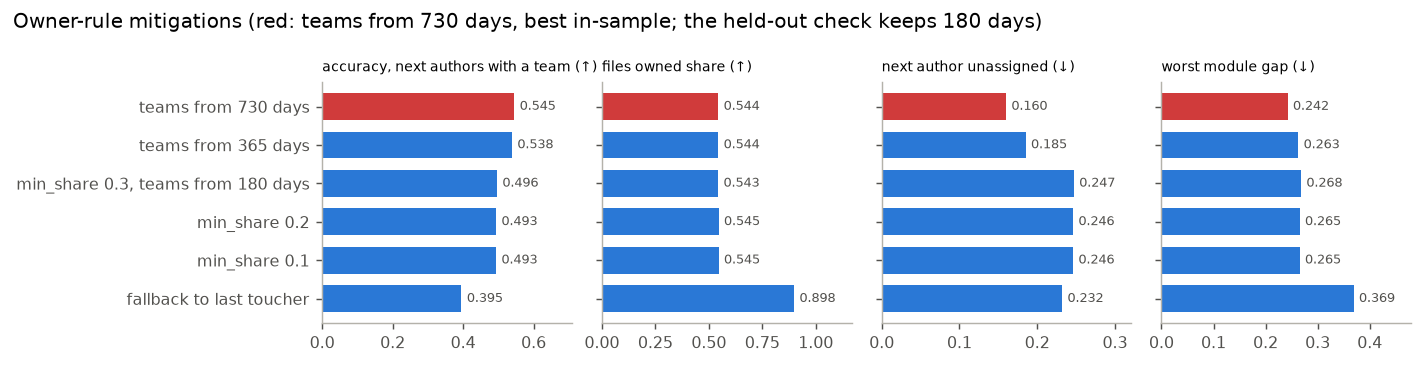
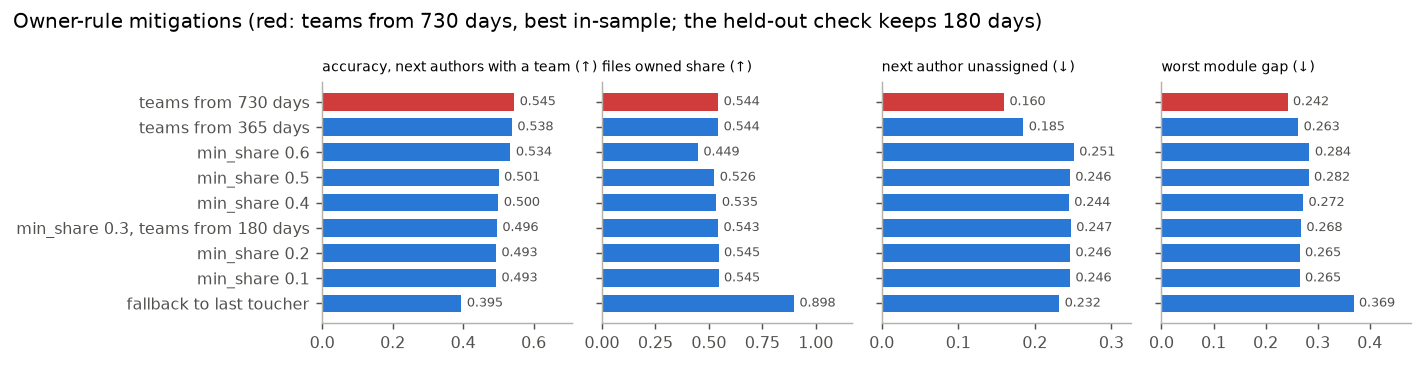
Flow: SZZ cache for the daily update (DAG 943 s -> 480 s); bias: adopted abstain threshold, measured
Flow (criterion 6):
- The Gantt showed history as the critical path (854 of 943 s), mostly SZZ re-blaming
  every fix commit. settings.toml [cache] szz and scan on for the daily update; the
  weekly rebuild keeps every cache off (MERIDIAN_NO_CACHE) and compare checks the result.
- Measured in Airflow on c5118b019d642a9b: cold run fills the cache, warm run reuses
  all 9,757 fix commits. history 854 s -> 316 s, whole DAG 943 s -> 480 s. The 24 output
  files match golden byte for byte.
- [history] szz_workers 4: ten processes ran Docker's 7.7 GB out of memory with the
  cache on. The resolve cache was slower (195 -> 261 s) and is off again.
- tests/test_cache.py: baselines run with the cache explicitly off.
- Report 2.9, criteria row 6, Appendix A (before/after table, warm Gantt,
  report/airflow_run_warm.csv).

Bias (criterion 9):
- The owner rule's min_share is presented as the adopted decision-threshold mitigation
  (abstain: "unowned, needs review"), with an accuracy-coverage curve over min_share
  0.10-0.60 and the harm argument (guessing is right 127 of 511 times where it abstains).
- bias.py: no_team_authors section (the 24% of files whose next author has no team);
  held-out pick only among variants owning at least as many files; scored N per variant.
- tests/test_bias.py: 2 new tests. BIAS.md, report 3.3/3.4, Appendix B 5, criteria row 9,
  bias_mitigation.png. dvc.lock: only the bias stage re-recorded.
[…]

diff --git a/Data-Pipeline/meridian/bias.py b/Data-Pipeline/meridian/bias.py
@@ -20,6 +20,8 @@ so a view can caveat a low-coverage module, team or component. For the owner rul
 way, so the trade-off is on record: lower min_shares, longer lookbacks for a person's team, and falling back to the
 last toucher's team where the rule says 'unowned'. The best one is picked one window earlier and confirmed on the
 current cut (held_out). They are proposals: applying one changes meridian.toml (or owners.py), which means a new run_id.
+min_shares above meridian.toml's trace the abstain curve: fewer files owned, accuracy on what is still named. Next
+authors with no team, whom accuracy can't score, are described as a group of their own (no_team_authors).
 
 Reads out/<run_id>/ tables and settings.toml [bias]. Writes out/<run_id>/bias.json. Never writes a table.
 """
@@ -109,7 +111,7 @@ def owner_rows(cfg, out, root, run_id, variants, earlier=0):
             continue
         window = [x for x in before if back(cut) < x[0]]
         k = prior[after[0][1]]
-        row = {"path": path, "module": module(path),
+        row = {"path": path, "module": module(path), "next_person": after[0][1],
                "prior": "0" if not k else "1" if k == 1 else "2-10" if k <= 10 else ">10"}
         for name, (share, d) in variants.items():
             team_of = lambda p: teams[d].get(p, unassigned)
@@ -185,6 +187,7 @@ def owner_report(df, unassigned, variants, b):
              or {"overall": {"accuracy": 0.0}, "by_group": {}, "flagged": []})
         report["mitigations"][name] = {
             "files_owned": int(kept.sum()), "of": len(df), "accuracy_assigned": r["overall"]["accuracy"],
+            "scored": int(ok.sum()),
             "accuracy": round(float((pred[kept] == truth[kept]).mean()), 4) if kept.any() else 0.0,   # owners.py's
             "next_author_unassigned": round(float((truth[kept] == unassigned).mean()), 4) if kept.any() else 0.0,
             "flagged_modules": len(r["flagged"]),
@@ -193,23 +196,58 @@ def owner_report(df, unassigned, variants, b):
     return report
 
 
+def no_team_report(df, unassigned, variants):
+    """Next authors with no team (the circular class owner_report leaves out of accuracy), as a group of their own:
+    how many files and people, their commits before the cut, the modules they touch, and what the rule does there.
+    They have no label at the configured lookback, so the owner is checked against the team the longest lookback
+    gives them, where it gives one. Counts only, never a person."""
+    base = next(iter(variants))
+    longest = max(variants, key=lambda n: (variants[n][1], n == base))
+    owner, nxt = df[f"owner|{base}"], df[f"next|{base}"]
+    none = nxt == unassigned
+    d, owned = df[none], owner[none] != "unowned"
+    later = df.loc[none, f"next|{longest}"]
+    proxy = owned & (later != unassigned)
+    share = lambda a, n: round(a / n, 4) if n else 0.0
+    by_module = d["module"].value_counts()
+    return {
+        "files": int(none.sum()), "of": len(df), "share": share(none.sum(), len(df)),
+        "people": d["next_person"].nunique(), "of_people": df["next_person"].nunique(),
+        "files_by_prior_commits": {k: int(v) for k, v in sorted(d["prior"].value_counts().items())},
+        "people_by_prior_commits": {k: int(v) for k, v in sorted(d.groupby("prior")["next_person"].nunique().items())},
+        "modules": [{"module": m, "files": int(n), "share_of_module": share(n, (df["module"] == m).sum())}
+                    for m, n in sorted(by_module.items(), key=lambda x: (-x[1], x[0]))],
+        "owned_share": share(owned.sum(), len(d)),
+        "owned_share_with_a_team": share((owner[~none] != "unowned").sum(), (~none).sum()),
+        "team_from": longest, "given_a_team_there": int((later != unassigned).sum()),
+        "accuracy_against_that_team": share((owner[none][proxy] == later[proxy]).sum(), proxy.sum()) if proxy.any()
+        else None,   # nothing owned and given a team: nothing to score
+        "scored_against_that_team": int(proxy.sum())}
+
+
 def held_out(early, now, unassigned, variants, reps=1000, seed=0):
     """Pick the variant with the best accuracy (next authors with a team) at the earlier cut, then score it against the
-    configured one on the current cut: the delta, with a seeded paired bootstrap 95% interval over files."""
+    configured one on the current cut: the delta, with a seeded paired bootstrap 95% interval over files.
+
+    Only a variant that owns at least as many files as the configured one at the earlier cut can be picked: a stricter
+    min_share is always at least as accurate on what it still names, so it would win by abstaining, not by being
+    right more. Those are scored apart, as the abstain curve (owner_report's mitigations, and owned here)."""
     def hits(df, name):   # per file: scored, right
         pred, truth = df[f"owner|{name}"], df[f"next|{name}"]
         ok = (pred != "unowned") & (truth != unassigned)
         return ok.to_numpy(), (ok & (pred == truth)).to_numpy()
     acc = lambda ok, right: right.sum() / ok.sum() if ok.any() else 0.0
     picked = {name: num(acc(*hits(early, name))) for name in variants} if len(early) else {}
+    owned = {name: int((early[f"owner|{name}"] != "unowned").sum()) for name in variants} if len(early) else {}
     base = next(iter(variants))
-    best = max(picked, key=picked.get, default=base)   # a tie keeps what's configured
+    fair = {name: a for name, a in picked.items() if owned[name] >= owned[base]}
+    best = max(fair, key=fair.get, default=base)   # a tie keeps what's configured
     (ok0, r0), (ok1, r1) = hits(now, base), hits(now, best)
     i = np.random.default_rng(seed).integers(0, len(now), (reps, len(now)))
     with np.errstate(all="ignore"):   # a resample with nothing scored is NaN, left out
         delta = r1[i].sum(1) / ok1[i].sum(1) - r0[i].sum(1) / ok0[i].sum(1)
     lo, hi = np.nanpercentile(delta, [2.5, 97.5]) if not np.isnan(delta).all() else (None, None)
-    return {"picked_at_earlier_cut": best, "accuracy_at_earlier_cut": picked,
+    return {"picked_at_earlier_cut": best, "accuracy_at_earlier_cut": picked, "owned_at_earlier_cut": owned,
             "accuracy_now": {base: num(acc(ok0, r0)), best: num(acc(ok1, r1))},
             "delta": num(acc(ok1, r1) - acc(ok0, r0)), "delta_ci": [num(lo), num(hi)], "bootstrap": reps, "seed": seed}
 
@@ -267,6 +305,7 @@ def main(run_id, config=CONFIG, root=None, settings=None):
     df, unassigned, cut = owner_rows(cfg, out, root, run_id, variants)
     if len(df):
         report["owner_rule"] = owner_report(df, unassigned, variants, b) | {"cut": cut}
+        report["owner_rule"]["no_team_authors"] = no_team_report(df, unassigned, variants)
         # shortcut: reads the tables a second time for the earlier cut; load once if bias outgrows its timeout
         early, _, early_cut = owner_rows(cfg, out, root, run_id, variants, earlier=1)
         report["owner_rule"]["held_out"] = held_out(early, df, unassigned, variants) | {"cut": early_cut,

diff --git a/Data-Pipeline/tests/test_bias.py b/Data-Pipeline/tests/test_bias.py
@@ -43,7 +43,7 @@ SETTINGS = textwrap.dedent("""\
     [bias]
     min_n = 1
     max_gap = 0.10
-    min_shares = [0.30]
+    min_shares = [0.30, 0.60]
     team_lookback_days = [180, 730]
     """)
 
@@ -118,6 +118,22 @@ class Bias(unittest.TestCase):
         self.assertEqual((m["teams from 730 days"]["accuracy"], m["teams from 730 days"]["accuracy_assigned"]),
                          (1.0, 1.0))
 
+    def test_a_stricter_threshold_is_scored(self):   # 0.60 is above meridian.toml's 0.30: sql/a.scala is all SQL's
+        m = self.report["owner_rule"]["mitigations"]["min_share 0.6"]
+        self.assertEqual((m["files_owned"], m["scored"], m["accuracy_assigned"]), (1, 1, 1.0))
+
+    def test_no_team_authors_as_a_group(self):
+        # core/b.scala: Ann is next, no team at 180 days (her keyed commit is 2025-01), 2 commits before the cut, the
+        # rule leaves the file unowned. 730 days gives her Core, but an unowned file has nothing to score
+        g = self.report["owner_rule"]["no_team_authors"]
+        self.assertEqual((g["files"], g["of"], g["share"], g["people"], g["of_people"]), (1, 2, 0.5, 1, 2))
+        self.assertEqual((g["files_by_prior_commits"], g["people_by_prior_commits"]), ({"2-10": 1}, {"2-10": 1}))
+        self.assertEqual(g["modules"], [{"module": "core", "files": 1, "share_of_module": 1.0}])
+        self.assertEqual((g["owned_share"], g["owned_share_with_a_team"]), (0.0, 1.0))
+        self.assertEqual((g["team_from"], g["given_a_team_there"], g["scored_against_that_team"],
+                          g["accuracy_against_that_team"]), ("teams from 730 days", 1, 0, None))
+        self.assertEqual(self.saved["owner_rule"]["no_team_authors"], g)
+
     def test_held_out_cut_is_one_window_earlier(self):   # nothing spans 2025-10-06 here: the configured variant stays
         h = self.report["owner_rule"]["held_out"]
         self.assertEqual((h["cut"], h["files"], h["picked_at_earlier_cut"]),
@@ -151,6 +167,13 @@ class Bias(unittest.TestCase):
         lo, hi = h["delta_ci"]
         self.assertTrue(0 <= lo <= 0.5 <= hi <= 1)
         self.assertEqual(h, B.held_out(early, now, "unassigned", {"base": (0.3, 180), "long": (0.3, 730)}))   # seeded
+        # a stricter threshold abstains on the 3 wrong files: right on all it names, but it owns fewer, so not picked
+        early["owner|strict"], early["next|strict"] = ["X", "unowned", "unowned", "unowned"], early["next|base"]
+        now["owner|strict"], now["next|strict"] = now["owner|base"], now["next|base"]
+        h = B.held_out(early, now, "unassigned", {"base": (0.3, 180), "strict": (0.6, 180)})
+        self.assertEqual(h["accuracy_at_earlier_cut"]["strict"], 1.0)
+        self.assertEqual(h["owned_at_earlier_cut"], {"base": 4, "strict": 1})
+        self.assertEqual((h["picked_at_earlier_cut"], h["delta"]), ("base", 0.0))
 
     def test_ticket_mapping_and_resolver_slices(self):
         t = self.report["ticket_mapping"]

diff --git a/Data-Pipeline/tests/test_cache.py b/Data-Pipeline/tests/test_cache.py
@@ -97,7 +97,8 @@ class ScanCache(unittest.TestCase):
             root = Path(tmp)
             _, config = TS.snapshot(root)
             cfg = load_config(config)
-            quiet(S.run, RUN, cfg, root)
+            with switched(root, scan=False):   # the baseline: cache off whatever settings.toml says
+                quiet(S.run, RUN, cfg, root)
             off = tables(root, RUN, S.KEYS)
             with switched(root, scan=True):
                 _, first = quiet(S.run, RUN, cfg, root)
@@ -109,7 +110,8 @@ class ScanCache(unittest.TestCase):
 
             next_snapshot(root, "fix__app", "fix/app",
                           {"app/direct.py": "from lib.translation import ugettext\nugettext('n')\n"})
-            quiet(S.run, RUN2, cfg, root)
+            with switched(root, scan=False):   # from scratch: cache off whatever settings.toml says
+                quiet(S.run, RUN2, cfg, root)
             scratch = tables(root, RUN2, S.KEYS)
             with switched(root, scan=True):
                 _, third = quiet(S.run, RUN2, cfg, root)

diff --git a/Data-Pipeline/report/REPORT.md b/Data-Pipeline/report/REPORT.md
@@ -104,9 +104,21 @@ On `c5118b019d642a9b` there are 0 errors and 0 warnings. 289 Spark tickets reall
 
 ### 2.9 Pipeline flow optimization
 
-The Gantt chart of the team run's update shows where the time goes. Run one after another, the tasks add up to 1,183 s. The DAG took 943 s, because `scan` and `resolve` run beside `history`, which saves 20%.
+**What the Gantt chart showed.** In the team run's update, the tasks add up to 1,183 s back to back. The DAG took 943 s, because `scan` and `resolve` run beside `history` (20% saved). The chart also showed that `history` is the critical path: 854 of the 943 s. Most of that is SZZ, which blames every Spark bug-fix commit again on every run, although almost all of them are the same as the day before.
 
-`history` is the bottleneck: it walks all of Spark's git history for SZZ. It already runs one process per CPU, and its cache brings a warm run from 312 s down to 74 s ([Appendix D](appendix-testing.md)). Most of what's left is Docker's folder mount on a Mac, which makes git about three times slower than native. A Docker volume or a Linux host fixes that ([Appendix A](appendix-airflow.md)).
+**What we changed, and the result.** We turned on the SZZ cache for the daily update (`settings.toml [cache]`). A fix commit blamed once keeps its answer, and only new fix commits are blamed. Then we measured it in Airflow on the same run. The first run fills the cache; the next one reuses it:
+
+| | Before: cache off | After: warm cache |
+|---|---:|---:|
+| `history` | 854 s | **316 s** (−63%) |
+| Whole update DAG | 943 s | **480 s** (−49%) |
+| Output | the 24 golden files | the same 24 files, byte for byte |
+
+The log confirms it: all 9,757 Spark fix commits came from the cache. The "after" run also used 4 SZZ processes instead of one per CPU (10). Ten ran out of Docker's 7.7 GB of memory once the cache was on, so the saving is not from more parallelism. On a real day a few new fix commits are blamed, so a daily run sits a little above 480 s.
+
+Two caches didn't pay off, and we say so. The scan cache cut `scan` from 11 s to 7 s, which is too small to matter. The resolve cache made `resolve` slower (195 s to 261 s), because checking that a file can be reused means re-reading every file Jedi read for it through the Mac's folder mount. We turned the resolve cache off; `resolve` runs beside `history`, so it isn't on the critical path either way.
+
+The weekly rebuild keeps every cache off (`MERIDIAN_NO_CACHE`). Once a week it recomputes everything from scratch and `compare` checks the cached daily results against it, so a stale cache can't go unnoticed. The rest of the cold time is Docker's folder mount on a Mac, which makes git about three times slower than native. A Docker volume or a Linux host would remove that ([Appendix A](appendix-airflow.md)).
 
 ## 3. Data bias detection using data slicing
 
@@ -124,7 +136,7 @@ We don't have demographic data, and we don't want it. What we can check is wheth
 
 A slice counts when it has at least 30 rows. It's flagged when its whole 95% Wilson interval (a confidence range for a rate) sits more than 0.10 below the overall value. 136 slices were judged and 32 flagged:
 
-- The owner rule is right 49.6% of the time where it can be scored. A quarter of next authors have no team (none of their commits in the last 180 days names a ticket with a Jira component), so the rule can't score them. That's a coverage gap, not a skew.
+- The owner rule is right 49.6% of the time where it can be scored. A quarter of next authors have no team (none of their commits in the last 180 days names a ticket with a Jira component), so the rule can't score them. That's a coverage gap, not a skew. We look at that group on its own in §3.3.
 - Ticket mapping depends mostly on age. Tickets from before 2014 point at files that are gone by our pinned commit. Kubernetes and Spark Docker stay low even on recent tickets, because their code lives in other Apache repos we didn't snapshot.
 - The resolver treats every repo the same: 98.1% kept overall, no repo flagged.
 
@@ -132,19 +144,38 @@ A slice counts when it has at least 30 rows. It's flagged when its whole 95% Wil
 
 We scored each fix on the same files, then checked the best one on held-out data.
 
-- Lowering the owner threshold (min_share 0.30 to 0.20 or 0.10) changed nothing: files are unowned because their authors have no team, not because shares sit near the line.
-- Falling back to the last person who touched the file owns 65% more files but is wrong more often (0.395), so we didn't take it.
+**Adopted: the owner rule abstains instead of guessing.** `min_share` is a decision threshold. A file's top team must hold at least 30% of its recent commits, or the rule names no owner and the file shows as "unowned, needs review". We measured that choice as a curve: raise the threshold and the rule names fewer files but is right more often on the ones it names. On the 1,819 files of the test (accuracy on next authors with a team):
+
+| min_share | Files owned | Accuracy (N, 95% CI) | Earlier cut: owned, accuracy |
+|---|---:|---:|---:|
+| never abstain (last toucher's team) | 1,634 (89.8%) | 0.395 (1,255, 0.369–0.423) | not scored |
+| 0.10 / 0.20 | 992 (54.5%) | 0.493 (748) | 774, 0.502 |
+| **0.30 (adopted, meridian.toml)** | **988 (54.3%)** | **0.496 (744, 0.460–0.532)** | **769, 0.505** |
+| 0.40 | 974 (53.5%) | 0.500 (736, 0.464–0.536) | 755, 0.508 |
+| 0.50 | 956 (52.6%) | 0.501 (721, 0.464–0.537) | 737, 0.504 |
+| 0.60 | 817 (44.9%) | 0.534 (612, 0.495–0.573) | 595, 0.560 |
+
+Abstaining reduces harm because the two errors aren't equal. A wrong owner is silent: the work goes to a team that didn't write the code, and nobody sees that it went wrong. "Unowned, needs review" is visible, so a person routes it. On the files where the rule abstains, guessing the last toucher's team would be right only 127 of 511 times (0.249), so it would send three in four of them to the wrong team. That's why we abstain rather than fall back.
+
+We kept 0.30. From 0.10 to 0.50 the accuracy is flat (0.493–0.501, the intervals overlap almost fully), so 0.30 keeps the most files at the same accuracy. 0.60 is the first value that clearly helps, at both cuts (+0.038 now, +0.055 at the earlier cut). But it sends 171 more files to review (owned 54.3% to 44.9%), and the worst module gap widens from 0.268 to 0.284. The files it gives up are still right 42 of 132 times (0.318). We recommend 0.60 if the team can review that many more files. It would change `meridian.toml`, so a new run_id, and we didn't adopt it here. The held-out check (below) only picks a variant that owns at least as many files as the current rule, so a stricter threshold can't win just by abstaining more.
+
+Measured, not adopted:
+
+- Lowering the threshold (0.20 or 0.10) changed nothing: files are unowned because their authors have no team, not because shares sit near the line.
+- Falling back to the last person who touched the file owns 65% more files but is wrong more often (0.395), and widens the worst module gap to 0.369.
 - Taking a person's team from their last 730 days instead of 180 looked best: accuracy 0.496 to 0.545, and unassigned authors 24.7% down to 16.0%. But picked on an earlier cut and checked on the current one, it lost to the current rule (0.502 vs 0.505). So we didn't adopt it.
 
-What we shipped: every slice in `bias.json` carries its size, interval and flag, so the views can show "low coverage" next to a flagged team or module and an unmapped team doesn't look idle. For ticket mapping the fix is more data, not fuzzy matching: add the two missing Apache repos in the next team run.
+**Authors with no team, as their own group** (`bias.json` `owner_rule.no_team_authors`). 438 of the 1,819 files (24.1%) have a next author with no team. That's 96 of 169 next authors. Most are newcomers: 70 of the 96 had no commits before the cut (257 files), 11 had 2–10, 14 more than 10 and 1 had one. A person's team comes from their own ticket-keyed commits, so a first-time author can never have one. That means the prior-commits slice in §3.2 can't speak for newcomers at all. Their files are mostly in `sql/` (325 files, 33.9% of `sql/`'s), then `core/` (33) and `python/` (32). `connector/` is the most affected, with 14 of its 21 files. The rule names an owner for their files about as often as for anyone else's (55.7% vs 53.9%), so they aren't routed worse, just not checkable. Where a 730-day lookback gives them a team (150 files), the named owner matches it 0.651 of the time (N = 86), above the overall 0.496.
+
+What we shipped beyond the rule: every slice in `bias.json` carries its size, interval and flag, so the views can show "low coverage" next to a flagged team or module and an unmapped team doesn't look idle. For ticket mapping the fix is more data, not fuzzy matching: add the two missing Apache repos in the next team run.
 
 ### 3.4 Documenting bias mitigation
 
-[BIAS.md](../BIAS.md) has every slice, the mitigation table and the held-out check, and [Appendix B §5](appendix-quality.md#5-bias-data-slicing) has the charts. The trade-offs:
+[BIAS.md](../BIAS.md) has every slice, the mitigation table with the threshold curve, the no-team group and the held-out check, and [Appendix B §5](appendix-quality.md#5-bias-data-slicing) has the charts. The trade-offs:
 
 - The longer lookback gives more people a team, but a two-year-old team can be wrong for someone who moved.
 - The flags aren't corrected for testing 136 slices at once. Under a Bonferroni check 26 of the 32 still hold.
-- `tests/test_bias.py` pins the slicing and flag rules on a synthetic history.
+- `tests/test_bias.py` pins the slicing and flag rules, a threshold above the adopted one, the no-team group and the held-out pick on a synthetic history.
 
 ## 4. Additional guidelines
 
@@ -226,10 +257,10 @@ We tested this by breaking things on purpose: 27 injected faults and 42 scenario
 | 3 | Pipeline orchestration (Airflow DAGs) | §2.4, [A](appendix-airflow.md) | ✅ |
 | 4 | Tracking and logging | §2.6, §4.5 | ✅ Python logging in every part, a log per task try in Airflow |
 | 5 | Data version control (DVC) | §2.5 | 🟡 Partial: `dvc.yaml` and `dvc.lock` pin every stage, but the remote is a placeholder, so `dvc pull` doesn't work. The team zip and `reproduce.py` stand in for it (§4.3) |
-| 6 | Pipeline flow optimization | §2.9, [A](appendix-airflow.md) | ✅ |
+| 6 | Pipeline flow optimization | §2.9, [A](appendix-airflow.md) | ✅ The Gantt chart found the bottleneck (`history`, 854 of 943 s). The SZZ cache cut it to 316 s and the DAG to 480 s (−49%), measured in Airflow with the same output bytes |
 | 7 | Schema and statistics generation | §2.7, [B](appendix-quality.md) | ✅ |
 | 8 | Anomaly detection and alert generation | §2.8, [B](appendix-quality.md) | 🟡 Partial: detection is live and tested. Alerts go to the log; the Slack and email senders are tested with mocks, but no real channel is set up |
-| 9 | Bias detection and mitigation | §3, [BIAS.md](../BIAS.md) | ✅ Detection on 136 slices. Five mitigations measured, none adopted; flags ship instead (§3.3) |
+| 9 | Bias detection and mitigation | §3, [BIAS.md](../BIAS.md) | ✅ Detection on 136 slices. Adopted: the owner rule abstains ("unowned, needs review") below `min_share` 0.30, measured on an accuracy-coverage curve against guessing (0.496 vs 0.395); 0.60 recommended, not adopted. No-team authors analysed as their own group. Per-slice flags ship to the views (§3.3) |
 | 10 | Test modules | §2.3, [B](appendix-quality.md) | ✅ |
 | 11 | Reproducibility | §4.3, [D](appendix-testing.md) | ✅ Same run_id and same bytes from the pinned inputs; `reproduce.py` checks both |
 | 12 | Error handling and logging | §4.5, [D](appendix-testing.md) | ✅ |

diff --git a/Data-Pipeline/BIAS.md b/Data-Pipeline/BIAS.md
@@ -23,7 +23,7 @@ We don't slice by email domain or any other personal attribute, for privacy. The
 Counting every next author gives 0.373 (N = 988), with `unassigned` at 0.000 on N = 244. That 0.000 is built in: `team_owner` never names `unassigned`, and the same `person_teams` (same lookback) builds both the prediction and the label, so an unassigned next author is a miss under every variant. So `bias.py` now scores accuracy only on next authors with a team: 0.496 (N = 744, 95% CI 0.460–0.532). The unassigned rate is reported on its own as coverage (24.7% of owned files' next authors, `assigned_share_by_module`). Without the unassigned:
 - By module, 3 of 11 judged, 1 flagged: `core/` 0.228 (N = 57, CI 0.138–0.352). Counting the unassigned as misses it read 0.167 (N = 78), so part of `core/`'s gap was the circular class, but not all of it. `sql/` 0.519 (N = 393) and `python/` 0.509 (N = 232) sit on the overall line.
 - By the next author's team, 6 of 12 judged, 1 flagged: `Project Infra` 0.000 on exactly N = 30 (CI 0–0.114). That's borderline: one file fewer and it would be unjudged. The highest is Structured Streaming 0.804 (N = 51). Build (0.328, N = 116) and Spark Core (0.312, N = 64) are low, but their intervals reach the flag line.
-- By the next author's commits before the cut, 2 of 3 judged, 0 flagged: 2–10 commits 0.560 (N = 50), more than 10 0.493 (N = 686). One commit (0.375, N = 8) is too few to judge, so "newcomers aren't served worse" only holds down to people with 2 prior commits.
+- By the next author's commits before the cut, 2 of 3 judged, 0 flagged: 2–10 commits 0.560 (N = 50), more than 10 0.493 (N = 686). One commit (0.375, N = 8) is too few to judge, so "newcomers aren't served worse" only holds down to people with 2 prior commits. There is no 0-commit slice at all: a first-time author can't have a team, so newcomers sit entirely in the no-team group (section 5 below).
 
 ### 2. Some modules are mostly unowned
 
@@ -43,6 +43,15 @@ Owned share overall is 0.543 (N = 1,819). `examples/` 0.028 (CI 0.011–0.070), 
 
 Kept share is 0.981 overall (N = 1,556), and 0 of 12 judged repos are flagged. The lowest judged repo is jazzband/django-silk, 0.933 on N = 30 (CI 0.787–0.982). django-tenants (0.857, N = 7) is under N = 30, so it's unjudged.
 
+### 5. Next authors with no team, as their own group
+
+Accuracy can't score them, so `bias.json` `owner_rule.no_team_authors` describes them instead (counts only, never a person):
+- 438 of 1,819 files (24.1%) have a next author with no team. That's 96 of the 169 next authors.
+- By commits before the cut: 0 commits 70 people (257 files), 1 commit 1 (2), 2–10 commits 11 (32), more than 10 14 (147). Most are newcomers. A person's team comes from their own ticket-keyed commits in the lookback, so a first-time author can never have one. The 26 with earlier commits have none in the last 180 days that name a ticket with a component.
+- By module: `sql/` 325 files (33.9% of `sql/`'s 959), `core/` 33 (19.0%), `python/` 32 (10.7%), `connector/` 14 (66.7% of 21), `common/` 12 (18.8%), `resource-managers/` 6, `mllib/` 5, `examples/` 4, `dev/` 3, and one file each in `docs/`, `graphx/`, `launcher/`, `project/`.
+- The rule names an owner for 55.7% of their files, against 53.9% for next authors with a team. So their files are routed like anyone's; the gap is that nobody can check the route.
+- The 730-day lookback gives a team to the next author of 150 of the 438 files. On the 86 of those the rule owns, the named owner matches that team 0.651 of the time, above the overall 0.496. All of them made commits before the cut: a newcomer has no team under any lookback, so stays uncheckable.
+
 ### How many slices
 
 136 judged and 32 flagged (`bias.json` `slices_tested`, `slices_flagged`). Ticket mapping and resolver judge 111 and flag 27. The owner rule judges 25 and flags 5 (module 3/1, team 6/1, prior commits 2/0, assigned share 7/0, owned share 7/3).
@@ -60,15 +69,27 @@ We scored each candidate fix for the owner rule on the same files in the rerun (
 | Variant | Files owned | Accuracy (owners.py, unassigned = miss) | Accuracy, next authors with a team | Next author unassigned | Worst module gap |
 |---|---:|---:|---:|---:|---:|
 | as configured: `min_share` 0.30, teams from 180 days | 988 | 0.373 | 0.496 (N = 744) | 24.7% | 0.268 |
-| `min_share` 0.20 / 0.10 (adjusting the decision threshold) | 992 | 0.372 | 0.493 (N = 748) | 24.6% | 0.265 |
+| `min_share` 0.20 / 0.10 (a looser decision threshold) | 992 | 0.372 | 0.493 (N = 748) | 24.6% | 0.265 |
+| `min_share` 0.40 (stricter: abstains more) | 974 | 0.378 | 0.500 (N = 736) | 24.4% | 0.272 |
+| `min_share` 0.50 | 956 | 0.378 | 0.501 (N = 721) | 24.6% | 0.282 |
+| `min_share` 0.60 | 817 | 0.400 | 0.534 (N = 612) | 25.1% | 0.284 |
 | teams from 365 days | 989 | 0.439 | 0.538 (N = 806) | 18.5% | 0.263 |
 | teams from 730 days | 989 | 0.458 | 0.545 (N = 831) | 16.0% | 0.242 |
 | fallback to the last toucher's team when unowned | 1,634 | 0.303 | 0.395 (N = 1,255) | 23.2% | 0.369 |
 
 - Lowering the threshold does nothing. Those files are unowned because their authors have no team, not because shares sit near 0.30.
+- Raising it traces the abstain curve. 0.40 and 0.50 stay flat (0.500, 0.501, intervals 0.464–0.536 and 0.464–0.537 against 0.460–0.532). 0.60 is the first clear step: 0.534 (0.495–0.573) on 817 files, and 0.505 → 0.560 at the earlier cut (769 → 595 files). It gives up 171 files, which are right 42 of 132 times (0.318), and the worst module gap widens to 0.284.
 - Falling back to the last toucher owns 65% more files, but it's wrong more often (0.395) and widens the module gap.
 - A longer lookback for a person's team helps, but less than 0.373 → 0.458 suggests. Each variant is scored against its own labels, and the 730-day lookback also gives a team to 86 next authors who were unassigned, every one a guaranteed miss before. Without them the gain is 0.496 → 0.545 (+0.049), with overlapping intervals (0.460–0.532 vs 0.511–0.579). Coverage is the bigger win: unassigned next authors go from 24.7% to 16.0%. The catch is that a team from two years ago can be stale for someone who moved.
-- On held-out data the longer lookback doesn't hold up. `bias.py` picks the best variant at a cut one window earlier, 2025-10-06, with next authors limited to before the current cut, so the pick never sees the answers it's checked on. Then it scores the pick against the configured rule on the current cut, 2026-04-04, with a 95% interval from a seeded paired bootstrap over files (1,000 resamples, seed 0). On 1,279 files at the earlier cut the configured rule wins: 180 days 0.505, 730 days 0.502, `min_share` 0.20/0.10 0.502, 365 days 0.486. So the pick is the configured rule, and the held-out delta is 0.0, with a 95% interval of 0.0–0.0 (`bias.json` `owner_rule.held_out`). The +0.049 on the current cut is in-sample only.
+- On held-out data the longer lookback doesn't hold up. `bias.py` picks the best variant at a cut one window earlier, 2025-10-06, with next authors limited to before the current cut, so the pick never sees the answers it's checked on. Then it scores the pick against the configured rule on the current cut, 2026-04-04, with a 95% interval from a seeded paired bootstrap over files (1,000 resamples, seed 0). Only a variant that owns at least as many files as the configured rule there can be picked: a stricter `min_share` is right more often on what it still names, so it would win by abstaining, not by being right more (`owned_at_earlier_cut` records the counts). On 1,279 files at the earlier cut the configured rule wins: 180 days 0.505, 730 days 0.502, `min_share` 0.20/0.10 0.502, 365 days 0.486. The stricter thresholds score 0.508 (0.40, 755 files), 0.504 (0.50, 737) and 0.560 (0.60, 595) but own fewer files, so they're read as the curve above, not picked. So the pick is the configured rule, and the held-out delta is 0.0, with a 95% interval of 0.0–0.0 (`bias.json` `owner_rule.held_out`). The +0.049 on the current cut is in-sample only.
+
+### Adopted: abstain below `min_share` 0.30
+
+`min_share` is the owner rule's decision threshold. Below it the rule names no owner and the file shows as "unowned, needs review". That's the mitigation we adopted: the rule abstains rather than guesses. The curve above is its measurement, against the rule that never abstains (the last-toucher fallback, 0.395 on 1,634 files).
+
+Why abstaining reduces harm: a wrong owner is silent. The work goes to a team that didn't write the code, and nothing shows it went wrong. "Unowned, needs review" is visible, so a person routes it. On the 511 scored files where the rule abstains and the fallback guesses, the guess is right 127 times (0.249): three in four would go to the wrong team.
+
+Why 0.30: from 0.10 to 0.50 accuracy is flat (0.493–0.501), so 0.30 keeps the most files at the same accuracy. 0.60 is better on accuracy at both cuts (+0.038 now, +0.055 earlier) but sends 171 more files to review and widens the worst module gap. We recommend it if the team has the review capacity. It changes `meridian.toml` `[ownership] min_share`, so a new run_id; it isn't adopted on c5118b019d642a9b.
 
 ### What we ship now (no new run_id)
 
@@ -84,4 +105,4 @@ It would give a person's team its own lookback, `[teams.spark] lookback_days = 7
 - Add `apache/spark-docker` and `apache/spark-kubernetes-operator` to the snapshot so their keyed commits map (a new run_id). That should close much of the Kubernetes and Docker gap, and the next bias run will show how much.
 - "Never notified" (stall reason #2, stage 5) should treat a component whose `mapped_share` slice is flagged as unknown, not unnotified.
 
-`tests/test_bias.py` pins the rules on a synthetic history: the interval flag rule, a slice at exactly N = `min_n`, multi-component tickets, the prior-commits slice and the held-out scoring.
+`tests/test_bias.py` pins the rules on a synthetic history: the interval flag rule, a slice at exactly N = `min_n`, multi-component tickets, the prior-commits slice, a threshold above the configured one, the no-team group and the held-out scoring (a stricter threshold isn't picked for abstaining).

diff --git a/Data-Pipeline/report/appendix-quality.md b/Data-Pipeline/report/appendix-quality.md
@@ -97,8 +97,12 @@ Our flag rule isn't corrected for multiple comparisons, so with 136 slices a few
 
 ![](figures/bias_mitigation.png)
 
-*Each candidate fix for the owner rule scored four ways, where the 730-day lookback (red) wins in-sample but not held out.*
+*Each candidate fix for the owner rule scored four ways, where the 730-day lookback (red) wins in-sample but not held out. The `min_share` rows are the abstain curve.*
 
-A lower share threshold changes nothing. Falling back to the last toucher owns 65% more files but is wrong more often. Taking a person's team from the last 730 days instead of 180 looks best: 0.496 → 0.545 on next authors with a team, and unassigned 24.7% → 16.0%. So `bias.py` picks at a cut one window earlier (2025-10-06) and confirms on the current cut (2026-04-04) with a seeded paired bootstrap over the same files. At the earlier cut the configured 180-day rule wins (0.505 against 0.502 on 1,279 files), so the held-out delta is 0.0 (interval 0.0–0.0). The gain is in-sample only, and we didn't adopt the longer lookback.
+The adopted mitigation is the owner rule's decision threshold: below `min_share` 0.30 it abstains and the file shows as "unowned, needs review". Raising it gives the curve of files owned against accuracy on next authors with a team: 0.30 owns 988 files at 0.496, 0.40 974 at 0.500, 0.50 956 at 0.501, 0.60 817 at 0.534 (N = 612, CI 0.495–0.573). Never abstaining (the last toucher's team) owns 1,634 at 0.395, and on the 511 files where only the guess names a team it's right 127 times (0.249). A wrong owner silently sends work to the wrong team, while "needs review" is seen and routed by a person, so we abstain. We kept 0.30 because accuracy is flat up to 0.50. 0.60 also wins at the earlier cut (0.560 against 0.505), but it sends 171 more files to review, so we recommend it rather than adopt it (it would change `meridian.toml`, so a new run_id).
 
-What we applied now: every slice in `bias.json` carries its N, interval and flag, so the views can show "low coverage" next to a flagged slice and "too few to judge" under N = 30. For ticket mapping we ruled out fuzzy matching, so the fix is more coverage: add `apache/spark-docker` and `apache/spark-kubernetes-operator` to the snapshot. `tests/test_bias.py` (10 tests, passed) pins the flag rule, the N = 30 edge, multi-component tickets, the prior-commits slice and the held-out scoring.
+A lower share threshold changes nothing. Falling back to the last toucher owns 65% more files but is wrong more often. Taking a person's team from the last 730 days instead of 180 looks best: 0.496 → 0.545 on next authors with a team, and unassigned 24.7% → 16.0%. So `bias.py` picks at a cut one window earlier (2025-10-06) and confirms on the current cut (2026-04-04) with a seeded paired bootstrap over the same files. It only picks among variants that own at least as many files as the configured rule, so a stricter threshold can't win by abstaining. At the earlier cut the configured 180-day rule wins (0.505 against 0.502 on 1,279 files), so the held-out delta is 0.0 (interval 0.0–0.0). The gain is in-sample only, and we didn't adopt the longer lookback.
+
+Next authors with no team, as their own group (`owner_rule.no_team_authors`): 438 of 1,819 files (24.1%), 96 of 169 next authors. 70 of the 96 made no commit before the cut, so a newcomer can't have a team and is never scored. Their files are mostly in `sql/` (325), `core/` (33) and `python/` (32), with `connector/` the most affected (14 of 21 files). The rule names an owner for 55.7% of their files against 53.9% for the rest, so they're routed like anyone, just not checkable. Where the 730-day lookback gives them a team, the owner matches it 0.651 of the time (N = 86).
+
+What we applied now: every slice in `bias.json` carries its N, interval and flag, so the views can show "low coverage" next to a flagged slice and "too few to judge" under N = 30. For ticket mapping we ruled out fuzzy matching, so the fix is more coverage: add `apache/spark-docker` and `apache/spark-kubernetes-operator` to the snapshot. `tests/test_bias.py` (12 tests, passed) pins the flag rule, the N = 30 edge, multi-component tickets, the prior-commits slice, a threshold above the configured one, the no-team group and the held-out scoring.

diff --git a/Data-Pipeline/report/appendix-airflow.md b/Data-Pipeline/report/appendix-airflow.md
@@ -38,6 +38,27 @@ An earlier run on a Windows laptop never finished:
 
 The error handling still worked: timeouts, retries 5 minutes apart, a log per try, and the last good block stayed live.
 
+## Fixing the bottleneck: the SZZ cache
+
+The chart above has one long bar: `history`, 854 of 943 s, mostly SZZ re-blaming every Spark bug-fix commit. So we turned on the SZZ cache (`settings.toml [cache] szz = true`) and ran the update twice more on the same run, `c5118b019d642a9b`. The first run fills the cache (`cache_cold_c511`) and the second reuses it (`cache_warm_c511`):
+
+![](figures/airflow_gantt_warm.png)
+
+*The warm run: `history` is 316 s, and `resolve` (beside it) is now about as long.*
+
+| Task | Before: cache off, 10 SZZ processes | Filling the cache, 4 processes | **Warm cache, 4 processes** |
+|---|---:|---:|---:|
+| scan | 10 s | 11 s | 7 s |
+| resolve | 236 s | 195 s | 261 s (resolve cache on; turned off after this) |
+| history | 854 s | 1,072 s (3rd try) | **316 s** |
+| owners, join, graph, validate | 10, 29, 2, 39 s | 19, 54, 4, 80 s | 19, 53, 4, 74 s |
+| **Whole DAG** | **943 s** | about 1,250 s, counting only the try that passed | **480 s** |
+
+- The warm `history` log says `9757 reused from the cache`: no fix commit was blamed again.
+- The warm run's 24 output files match `golden/c5118b019d642a9b.json` byte for byte, as `tests/test_cache.py` requires of every cache.
+- With the cache on, ten SZZ processes ran Docker's 7.7 GB out of memory twice (exit -9, then a killed worker), so `[history] szz_workers` is now 4. The saving is despite fewer processes. Filling the cache costs a slower first run once.
+- The resolve cache was slower, not faster (195 s to 261 s): reusing a file means checking every file Jedi read for it, through the folder mount. It's off again. `report/airflow_run_warm.csv` has the warm run's tries.
+
 ## The weekly rebuild
 
 `meridian_rebuild` (run `rebuild_c511`) rebuilds `c5118b019d642a9b` from scratch in its own data folder with every cache off, then compares the result with the update's outputs. Every task passed on its first try, in 902 s:
